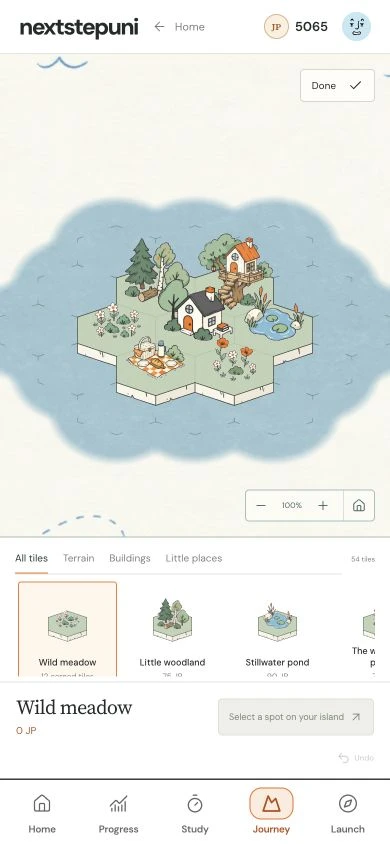
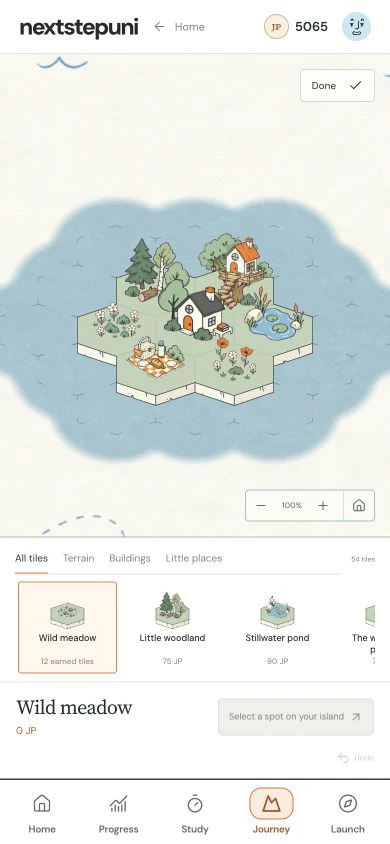
Keep tile prices visible in the compact phone tray

diff --git a/components/journey/paper/paper.css b/components/journey/paper/paper.css
@@ -1662,3 +1662,29 @@
     font-size: 11px;
   }
 }
+.journey-paper .shelf-tile > .shelf-portrait {
+  margin: 0 auto;
+  flex-shrink: 0;
+}
+@media (max-width: 700px) {
+  .journey-paper .coast-build-tray .student-tile-grid {
+    grid-auto-rows: 92px;
+  }
+  .journey-paper .coast-build-tray .shelf-tile {
+    padding: 1px 5px 3px;
+    overflow: hidden;
+  }
+  .journey-paper .coast-build-tray .shelf-portrait,
+  .journey-paper .coast-build-tray .shelf-tile .tile-portrait {
+    height: 49px;
+  }
+  .journey-paper .coast-build-tray .shelf-tile > strong {
+    height: 22.5px;
+    min-height: 22.5px;
+    overflow: hidden;
+  }
+  .journey-paper .coast-build-tray .shelf-tile > span:not(.shelf-portrait) {
+    margin-top: 1px;
+    white-space: nowrap;
+  }
+}

diff --git a/components/journey/paper/MapControls.tsx b/components/journey/paper/MapControls.tsx
@@ -403,7 +403,6 @@ export function TileShelf({
                 {t.id === "meadow" && credits > 0
                   ? `${credits} earned tiles`
                   : `${t.price} JP`}
-                {t.price > balance ? " · save a little more" : ""}
               </span>
             </button>
           );
